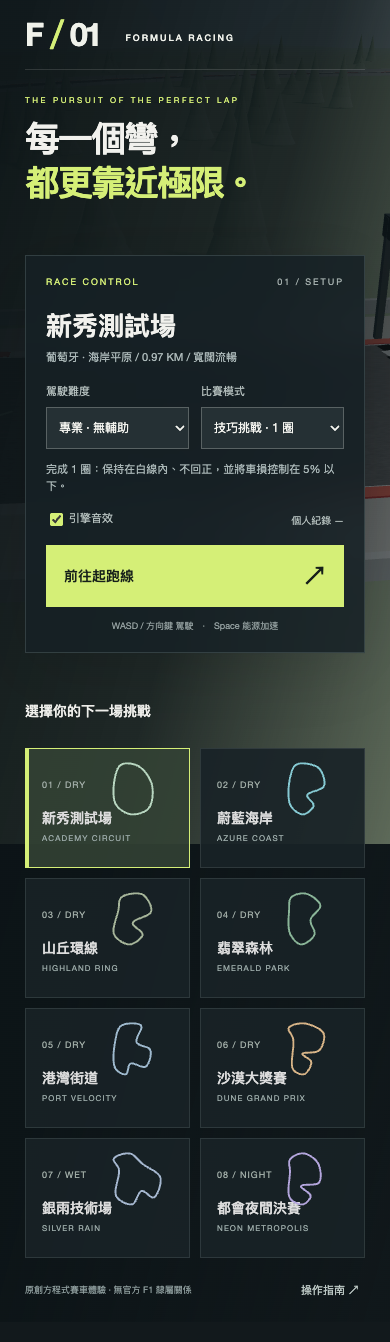
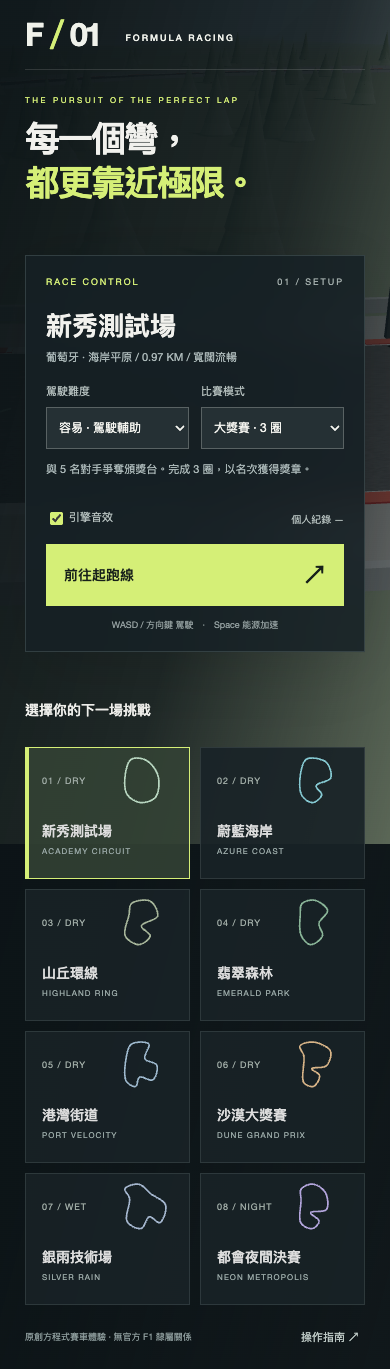
fix: prevent track map overlap on narrow screens

diff --git a/src/style.css b/src/style.css
@@ -739,7 +739,15 @@ footer button {
     grid-template-columns: repeat(2, 1fr);
   }
   .track-card {
-    min-height: 120px;
+    min-height: 132px;
+  }
+  .track-card svg {
+    width: 64px;
+    height: 48px;
+    top: 8px;
+  }
+  .track-card h3 {
+    margin-top: 34px;
   }
   .section-heading span {
     display: none;
